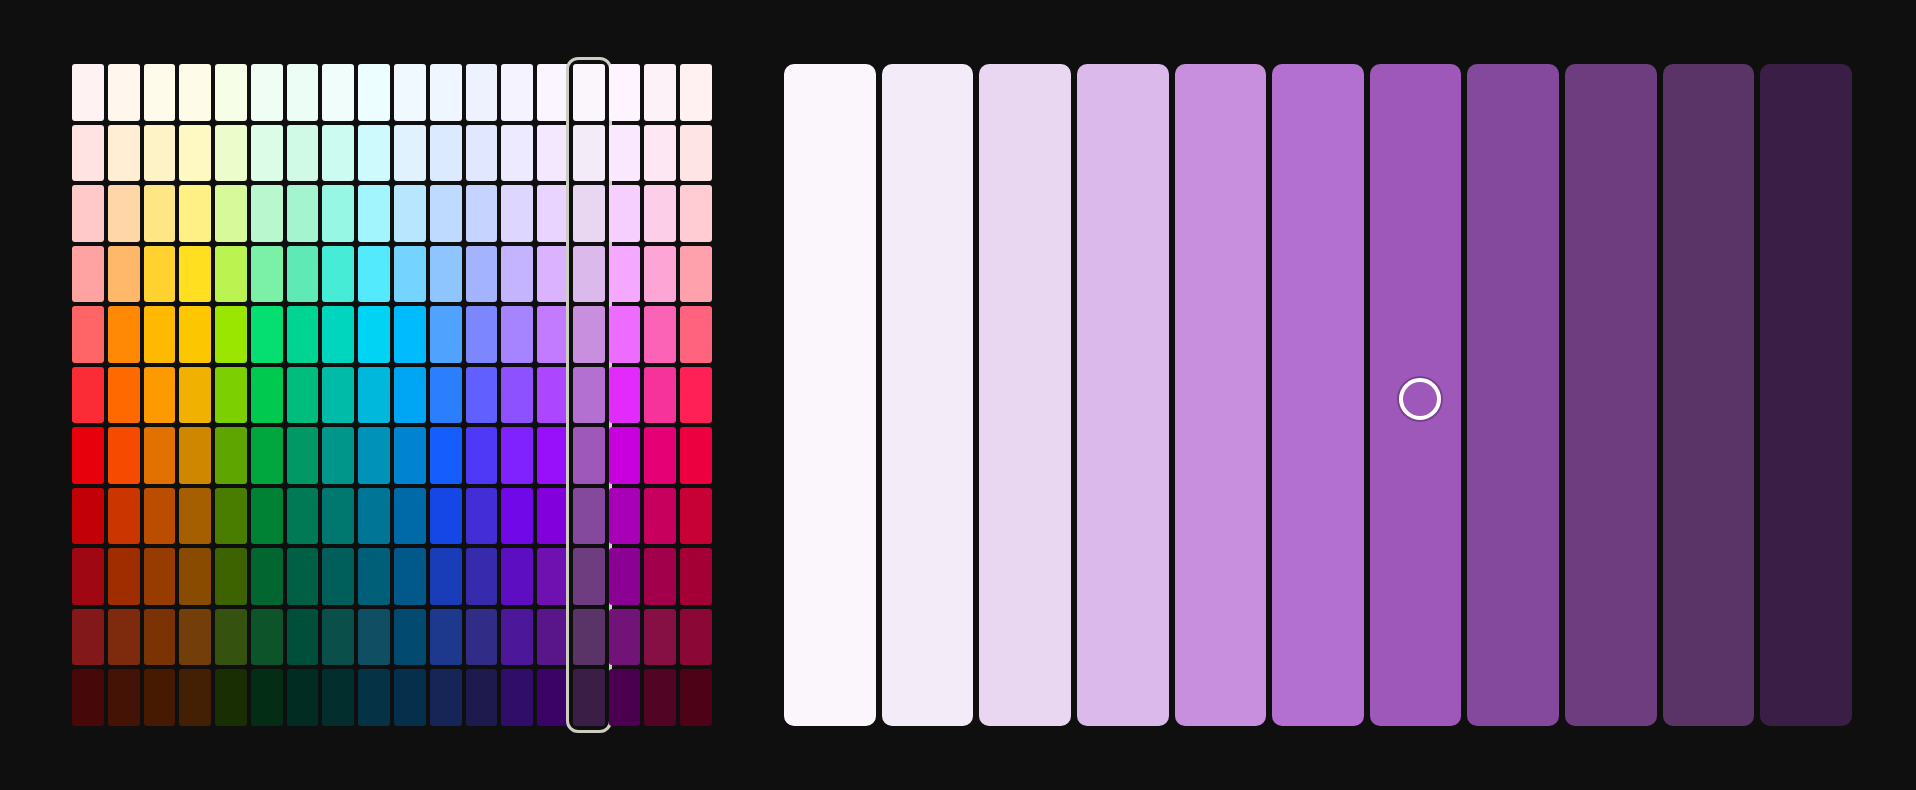
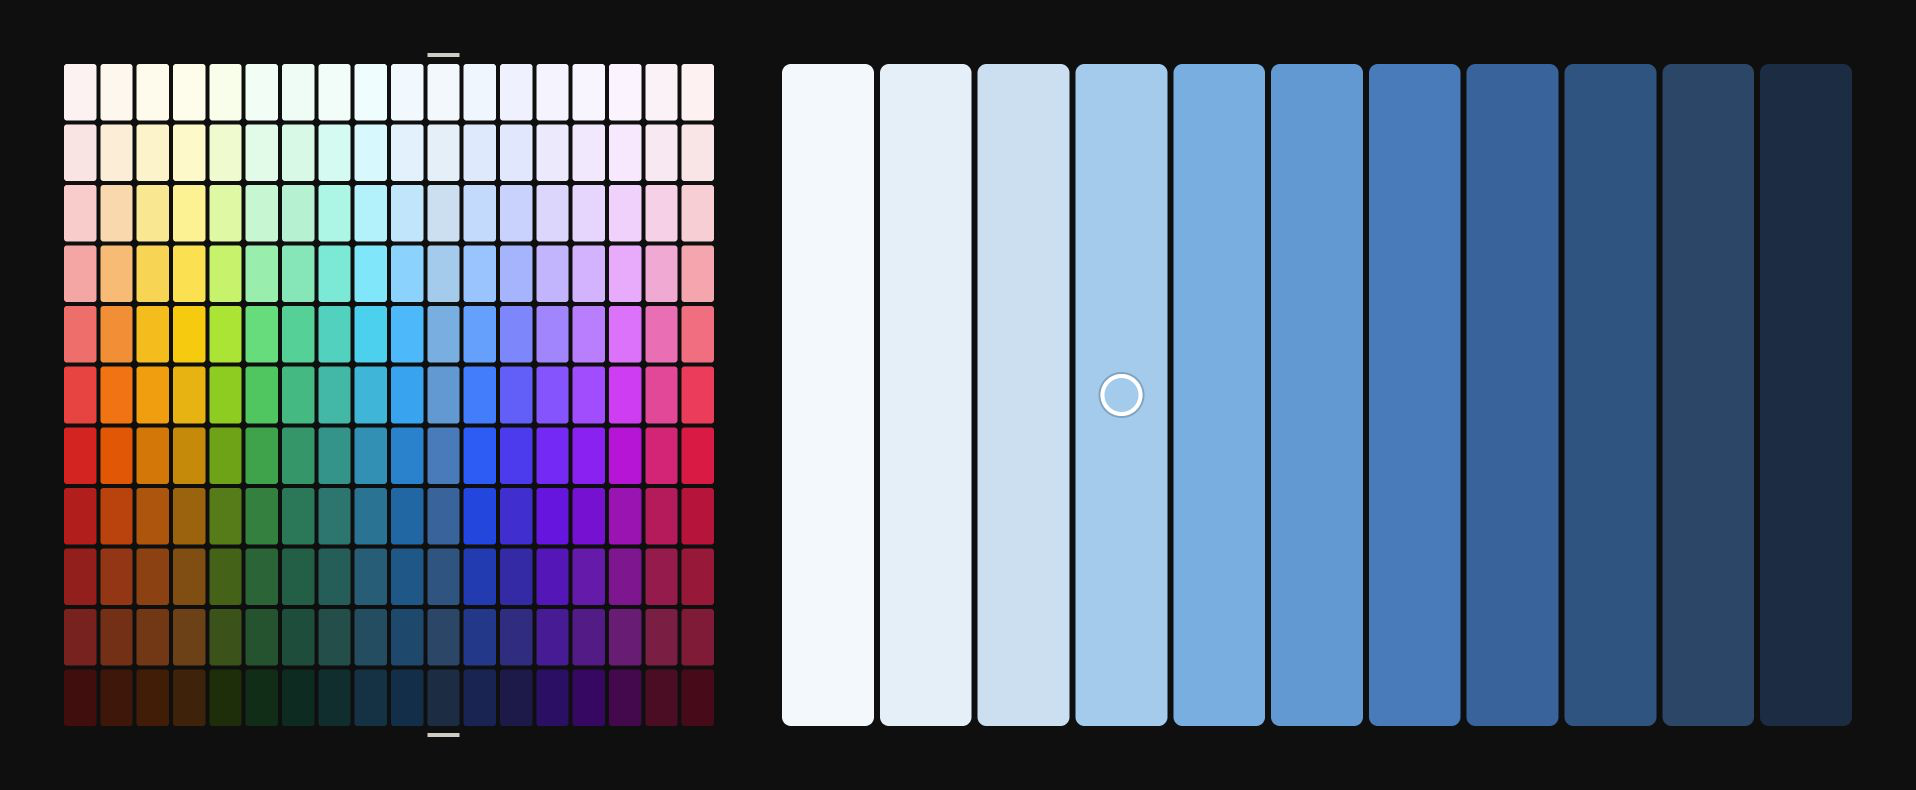
fixes: updated teaser photo

diff --git a/reviews/color-ramp/teaser-preview.html b/reviews/color-ramp/teaser-preview.html
@@ -3,5 +3,5 @@
 *{box-sizing:border-box}body{margin:0;background:#100F0F;color:#CECDC3;font-family:Arial,sans-serif}.card{width:1916px;height:790px;position:relative}.family{position:absolute;left:64px;top:64px;width:650px;height:662px;display:grid;gap:4px}.col{display:grid;gap:4px;position:relative}.cell{border-radius:3px}.mine:before,.mine:after{content:'';position:absolute;left:0;right:0;height:4px;background:#CECDC3}.mine:before{bottom:calc(100% + 7px)}.mine:after{top:calc(100% + 7px)}.ramp{display:flex;gap:6px;position:absolute;left:782px;right:64px;top:64px;height:662px}.sw{flex:1;border-radius:9px;position:relative}.sw>*{display:none}.anchor:after{content:'';width:34px;height:34px;position:absolute;left:50%;top:50%;transform:translate(-50%,-50%);border:4px solid #fff;border-radius:50%;box-shadow:0 0 0 2px #0003}iframe{position:absolute;left:-10000px;width:1400px;height:1000px}
 </style><div class="card"><div id="family"></div><div id="ramp" class="ramp"></div></div>
 <iframe title="Source application" src="../../color-ramp.html?teaser=20261101#c-99ccee.tailwind4.fit" onload="const d=this.contentDocument;d.documentElement.setAttribute('data-theme','dark');document.querySelector('#family').append(d.querySelector('#family .family').cloneNode(true));document.querySelector('#ramp').innerHTML=d.querySelector('#ramp').innerHTML"></iframe>
-<button onclick="const i=new Image();i.onload=()=>{const c=document.createElement('canvas');c.width=i.width;c.height=i.height;c.getContext('2d').drawImage(i,0,0);const a=document.createElement('a');a.download='color-ramp-teaser.webp';a.href=c.toDataURL('image/webp',.95);a.click()};i.src='../../assets/color-ramp-teaser.png?dark=20261101'">Download WebP</button>
+<button onclick="const i=new Image();i.onload=()=>{const c=document.createElement('canvas');c.width=i.width;c.height=i.height;c.getContext('2d').drawImage(i,0,0);const a=document.createElement('a');a.download='color-ramp-teaser.webp';a.href=c.toDataURL('image/webp',.95);a.textContent='WebP ready';document.body.append(a)};i.src='../../assets/color-ramp-teaser.png?dark=20261101'">Download WebP</button>
 </html>

diff --git a/index.html b/index.html
@@ -549,7 +549,7 @@
       <figure>
         <picture>
           <source type="image/webp" srcset="assets/color-ramp-teaser.webp" />
-          <img src="assets/color-ramp-teaser.png" alt="Tailwind's color ramps in a grid with a new purple ramp slotted in among them, beside the new ramp drawn large with the starting color circled" loading="lazy" width="1916" height="790" />
+          <img src="assets/color-ramp-teaser.png" alt="Dark-mode view of Tailwind’s color family with a generated blue ramp marked by white bars, beside the enlarged ramp with the input color circled" loading="lazy" width="1916" height="790" />
         </picture>
         <figcaption>
           <span class="title">Ramp from one color</span>
